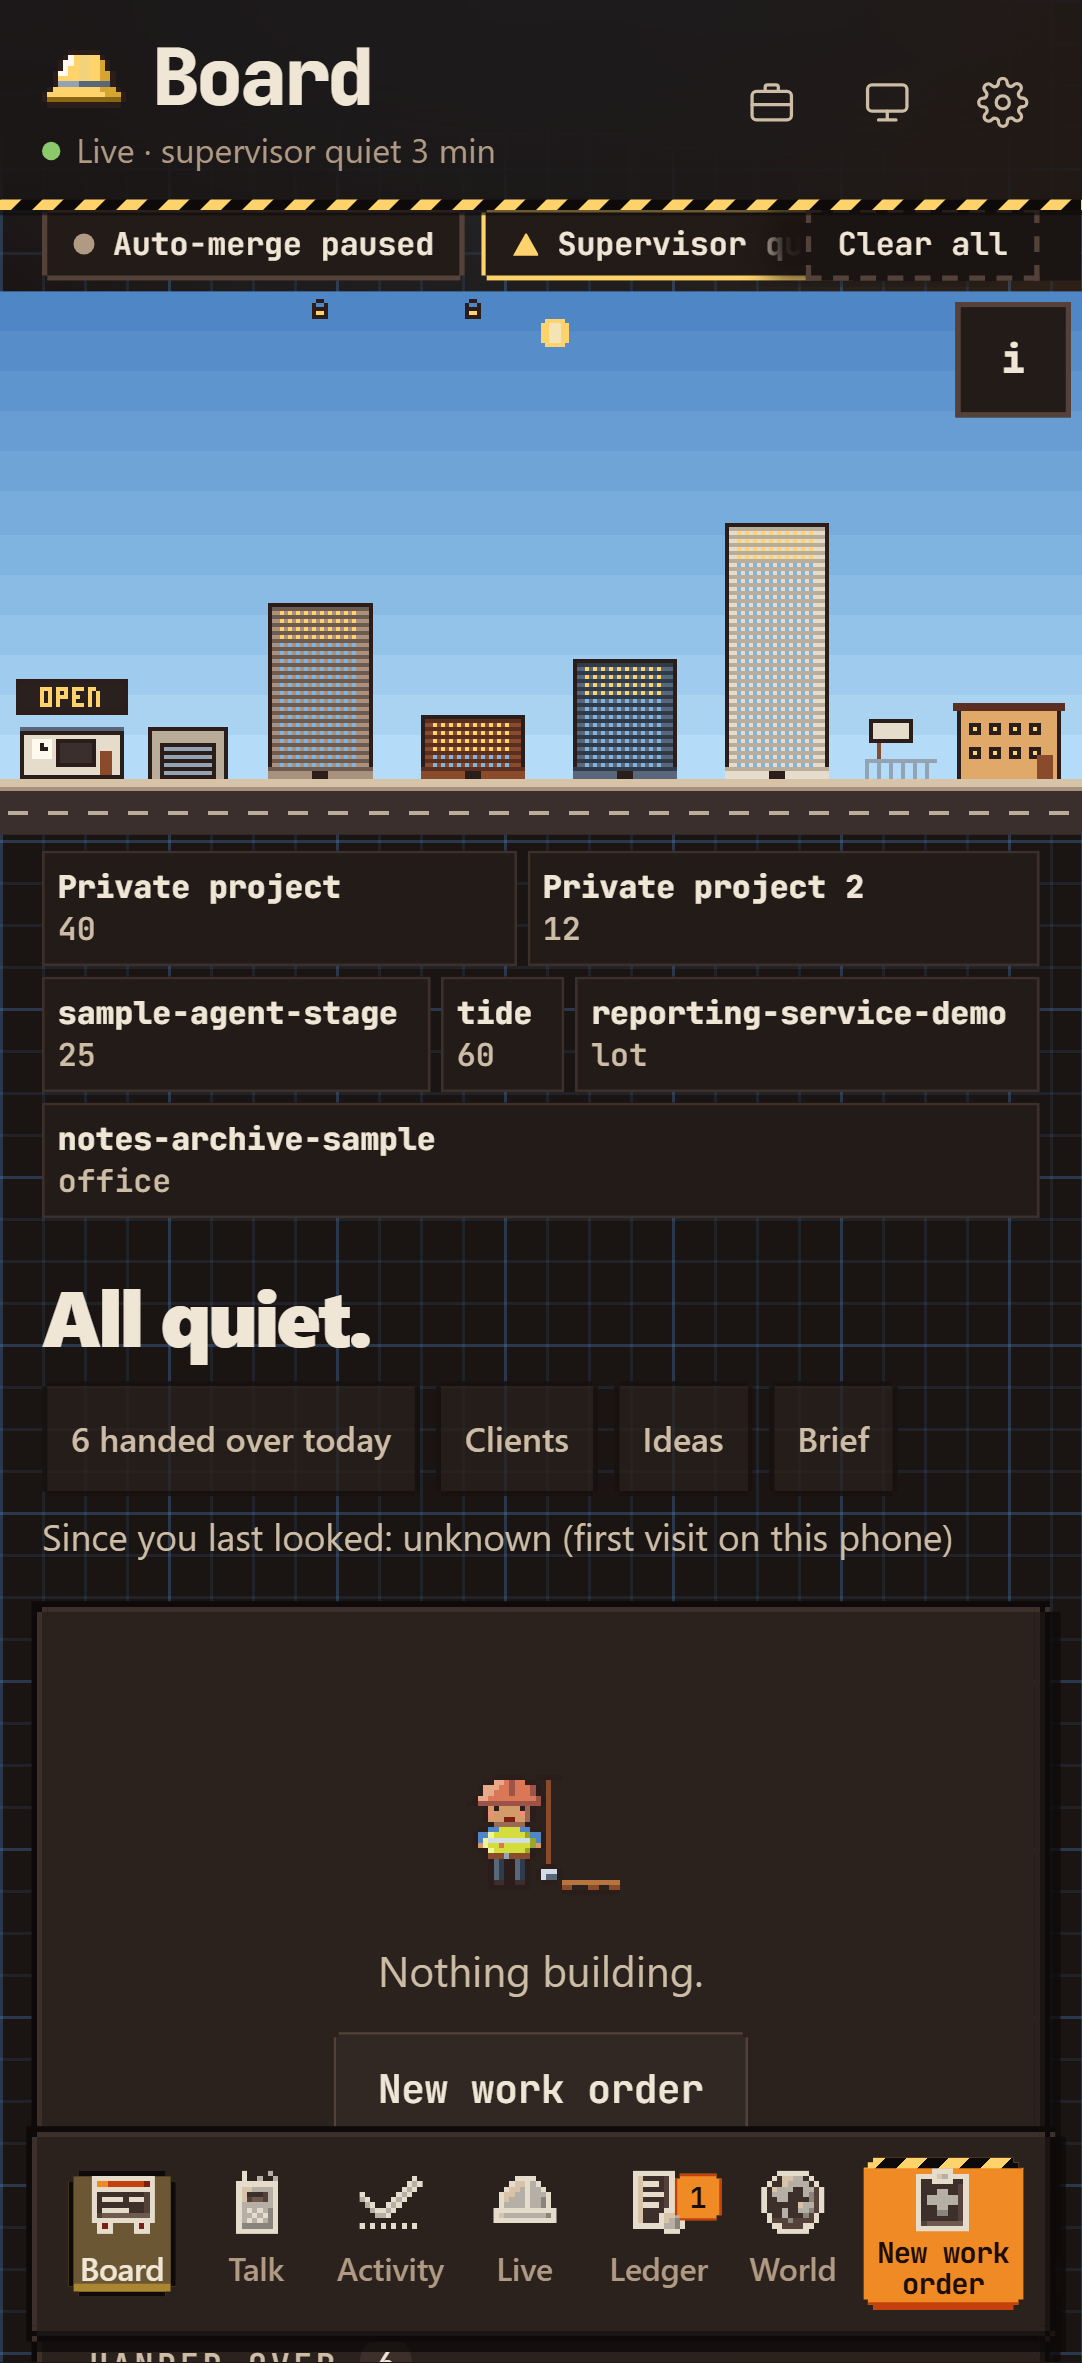
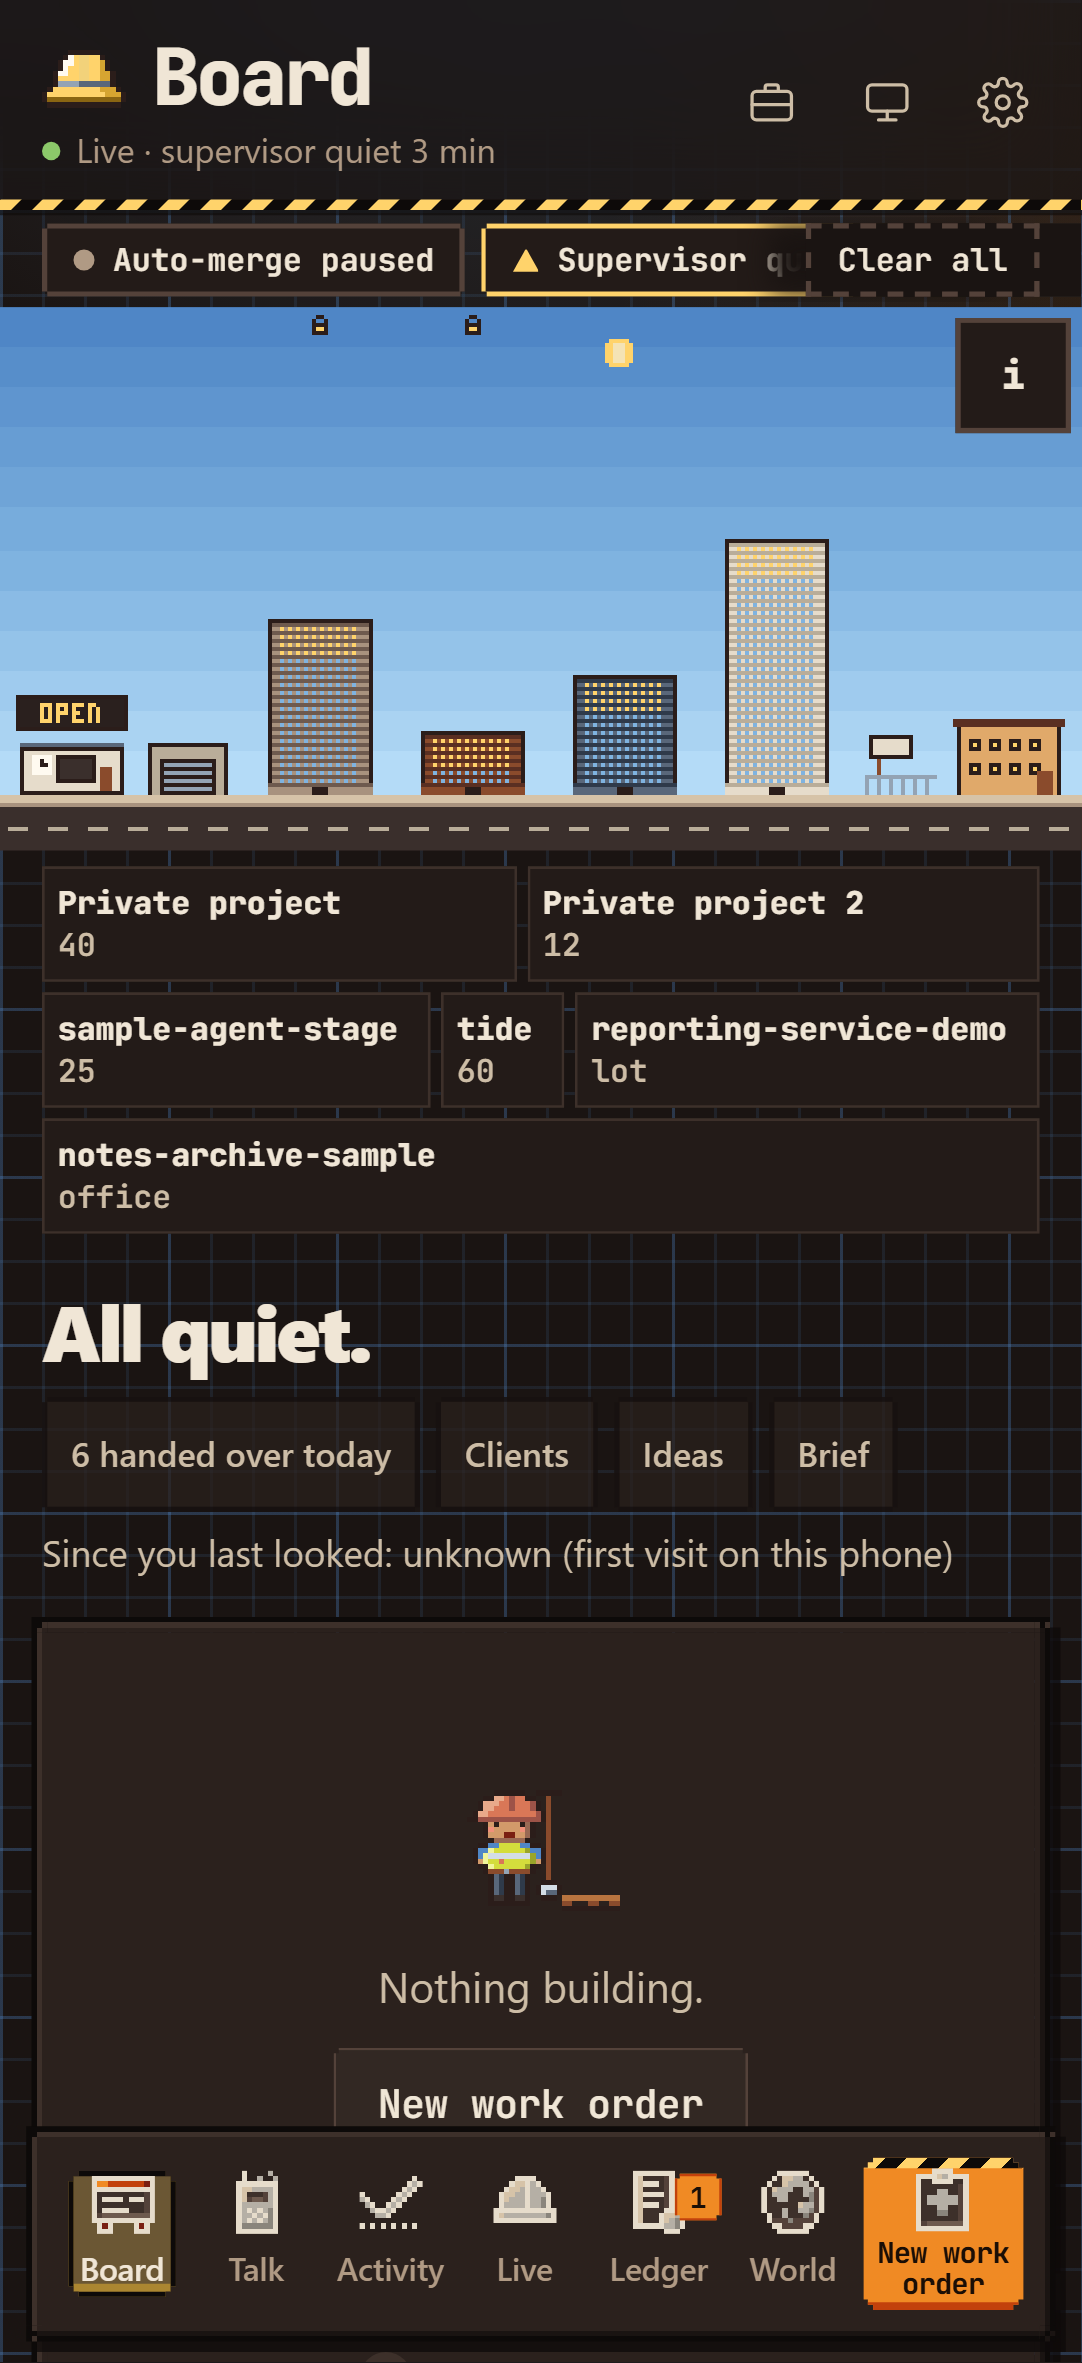
Board notices: nothing under the header's stripe; chips and the thin bar keep their top edge (task 31 review, D-3)
The pixel header's hazard stripe and its shadow cover the top 6 px under the header, which cut the chips' top border and the thin red bar. The first thing under the header now starts 6 px down; fold/unfold animate that margin with the height. New checks OneRow*_ChipsBelowHeaderStripe and ThinBar_BelowHeaderStripe fail on the earlier head. After-shots refreshed.

diff --git a/pass-app/public/app.css b/pass-app/public/app.css
@@ -1374,6 +1374,10 @@ html.px .notice-chip{clip-path:var(--px-notch-s)}
    but can be made thin: one line, at most 28 px, the full text one tap away. Height changes are animated in app.js (fold), never a jump. */
 .status-line{display:flex;flex-wrap:nowrap;align-items:center;gap:6px;height:32px;box-sizing:border-box;padding:2px var(--gutter);min-width:0;overflow-x:auto;overflow-y:hidden;overscroll-behavior-x:contain;scrollbar-width:none;touch-action:pan-x;-webkit-overflow-scrolling:touch}
 .status-line::-webkit-scrollbar{display:none}
+/* D-3 nothing clipped: the pixel header's hazard stripe and its drop shadow (html.px .top::after) cover the top 6 px under the header, so
+   the first thing under it (the red bars, else the status line) starts below them and every chip and bar keeps its top border. The margin
+   sits outside the line's 32 px, under the stripe, and fold/unfold in app.js animate it with the height, so clearing the line never jumps. */
+html.px .top+.city-strip[hidden]+.banners:not(:empty),html.px .top+.city-strip[hidden]+.banners:empty+.status-line{margin-top:6px}
 .notice-chip{flex:none;display:inline-flex;align-items:center;gap:7px;height:28px;min-height:0;padding:0 10px;font:700 12px/16px var(--mono);color:var(--ink);background:var(--surface);border:2px solid var(--line-strong);border-radius:0;cursor:pointer;white-space:nowrap;overflow:hidden;touch-action:pan-x;user-select:none;-webkit-user-select:none}
 .clear-all{flex:none;position:sticky;right:0;z-index:1;height:28px;margin-left:auto;padding:0 10px;font:600 12px/16px var(--mono);color:var(--ink);background:var(--bg);border:2px dashed var(--line-strong);border-radius:0;cursor:pointer;white-space:nowrap;box-shadow:-16px 0 10px -2px var(--bg),calc(var(--gutter) + 2px) 0 0 0 var(--bg)}
 .clear-all:focus-visible,.bar-thin:focus-visible,.redbar.thin:focus-visible{outline:3px solid var(--focus);outline-offset:-3px}

diff --git a/pass-app/public/app.js b/pass-app/public/app.js
@@ -1103,13 +1103,14 @@ function fold(el, axis, then) {
   const r = el.getBoundingClientRect(), size = axis === 'x' ? 'width' : 'height';
   const from = { [size]: (axis === 'x' ? r.width : r.height) + 'px', opacity: 1 }, to = { [size]: '0px', opacity: 0 };
   if (axis === 'x') Object.assign(from, { paddingLeft: getComputedStyle(el).paddingLeft, paddingRight: getComputedStyle(el).paddingRight, minWidth: '0px' }), Object.assign(to, { paddingLeft: '0px', paddingRight: '0px', minWidth: '0px', borderWidth: '0px' });
-  else Object.assign(from, { paddingTop: getComputedStyle(el).paddingTop, paddingBottom: getComputedStyle(el).paddingBottom }), Object.assign(to, { paddingTop: '0px', paddingBottom: '0px' });
+  else Object.assign(from, { paddingTop: getComputedStyle(el).paddingTop, paddingBottom: getComputedStyle(el).paddingBottom, marginTop: getComputedStyle(el).marginTop }), Object.assign(to, { paddingTop: '0px', paddingBottom: '0px', marginTop: '0px' });   // the margin too: under the pixel header the line starts 6 px down (app.css)
   NOTE.busy = true; const a = el.animate([from, to], { duration: 220, easing: 'cubic-bezier(.2,.8,.2,1)', fill: 'forwards' });
   a.finished.catch(() => { }).then(() => { NOTE.busy = false; then(); a.cancel(); });
 }
 function unfold(el) {
   if (still() || !el.animate) return;
-  const h = el.getBoundingClientRect().height; el.animate([{ height: '0px', opacity: 0 }, { height: h + 'px', opacity: 1 }], { duration: 220, easing: 'cubic-bezier(.2,.8,.2,1)' });
+  const h = el.getBoundingClientRect().height, m = getComputedStyle(el).marginTop;
+  el.animate([{ height: '0px', marginTop: '0px', opacity: 0 }, { height: h + 'px', marginTop: m, opacity: 1 }], { duration: 220, easing: 'cubic-bezier(.2,.8,.2,1)' });
 }
 const redraw = () => { NOTE.v++; renderBanners(); };
 function clearNotice(key) {

diff --git a/docs/changes/task-31.md b/docs/changes/task-31.md
@@ -32,20 +32,21 @@
 
 | | before | after |
 |---|---|---|
-| status line | 2 rows (wrapped) | 1 row, 32 px |
-| City top | 181 px | 111 px |
+| status line | 2 rows (wrapped) | 1 row, 32 px (starts 6 px down, below the header's stripe) |
+| City top | 181 px | 117 px |
 | City top, all notices cleared | (not possible) | about 80 px (line 0 px; read off `home-412-dark-after-cleared.png`, not measured) |
 
 **Why:** after #53 the chips wrapped to two rows at 412 px (about a tenth of the screen) and could not be cleared. Jordan said "We lose so much screen with them" (D-12). The home lists showed bare ids ("J357", "B-48") and raw markdown, and the brief's stuck notes were a loose bullet list (D-11).
 
 **Tests:**
-- **`pass-app/test-status-line.mjs`** (run by `tests/Test-PassApp.ps1`): 42 checks, 42 passed. New checks, one per acceptance line:
+- **`pass-app/test-status-line.mjs`** (run by `tests/Test-PassApp.ps1`): 45 checks, 45 passed. New checks, one per acceptance line:
   - `OneRow412x900_ThreeNotices`, `OneRow360x740_ThreeNotices`;
   - `ClearOne_SurvivesReload`, `TickingClock_StaysCleared`, `ChangedNotice_Reappears`, `SwipeUp_ClearsChip`;
   - `ClearAll_LineGone_BadgeCount`. `Clear_Animates_NoJump` samples every frame: the height folds over several frames, and the City only moves up;
   - `BadgeSheet_ListsAndRestores`, `BrokenBar_NotClearable_ShrinksTo28`, `NewBreakage_FullSize`, `StorageBlocked_StillWorks`;
   - three node checks of `notices.js` (`NoticeKey_*`);
   - `Home412_ChipsAreSmall` now asks for 24-28 px chips (it asked for 44-48 px).
+  - `OneRow412x900_ChipsBelowHeaderStripe`, `OneRow360x740_ChipsBelowHeaderStripe`, `ThinBar_BelowHeaderStripe` (review round 1, D-3): the pixel header's hazard stripe and its shadow cover the top 6 px under the header. They cut off the chips' top border and the top 6 px of the thin red bar. The first thing under the header now starts 6 px lower; the margin sits outside the 32 px line and folds with it. These checks failed on the earlier head: chips at 79 px and the thin bar at 77 px, with the stripe ending at 83 px.
 - **`pass-app/test-board-rows.mjs`** (new, run by `tests/Test-PassApp.ps1`): 10 checks, 10 passed:
   - `RowTitles_NoBareIdNoMarkdown`: no row text matches `^[A-Z]\d+$`, contains `**` or starts with "- ";
   - `StuckNotes_AreRows`;
